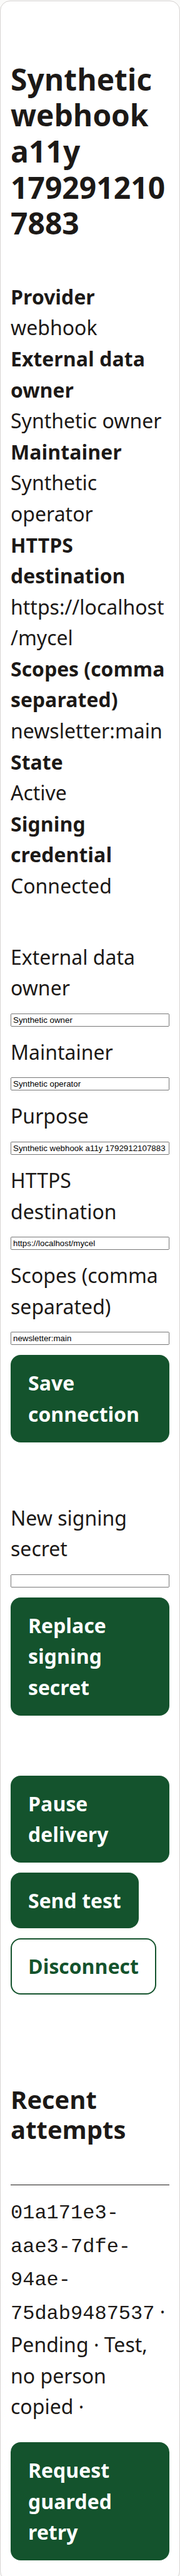
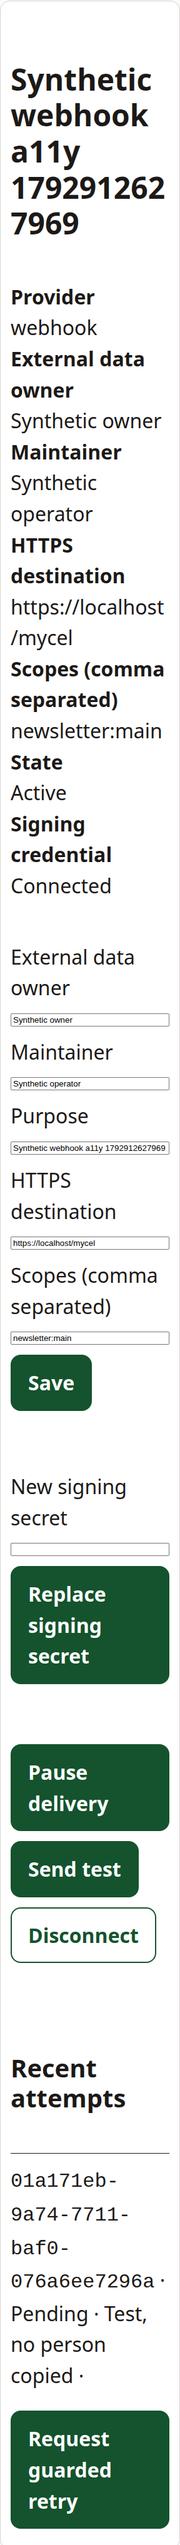
fix(connections): keep English save action whole at large text

diff --git a/apps/web/src/i18n/en.ts b/apps/web/src/i18n/en.ts
@@ -596,7 +596,7 @@ export const en = {
   'admin.connections.credential.reconnect-required': 'Reconnect required',
   'admin.connections.secret': 'New signing secret',
   'admin.connections.credential.replace': 'Replace signing secret',
-  'admin.connections.save': 'Save connection',
+  'admin.connections.save': 'Save',
   'admin.connections.pause': 'Pause delivery',
   'admin.connections.resume': 'Resume delivery',
   'admin.connections.test': 'Send test',
